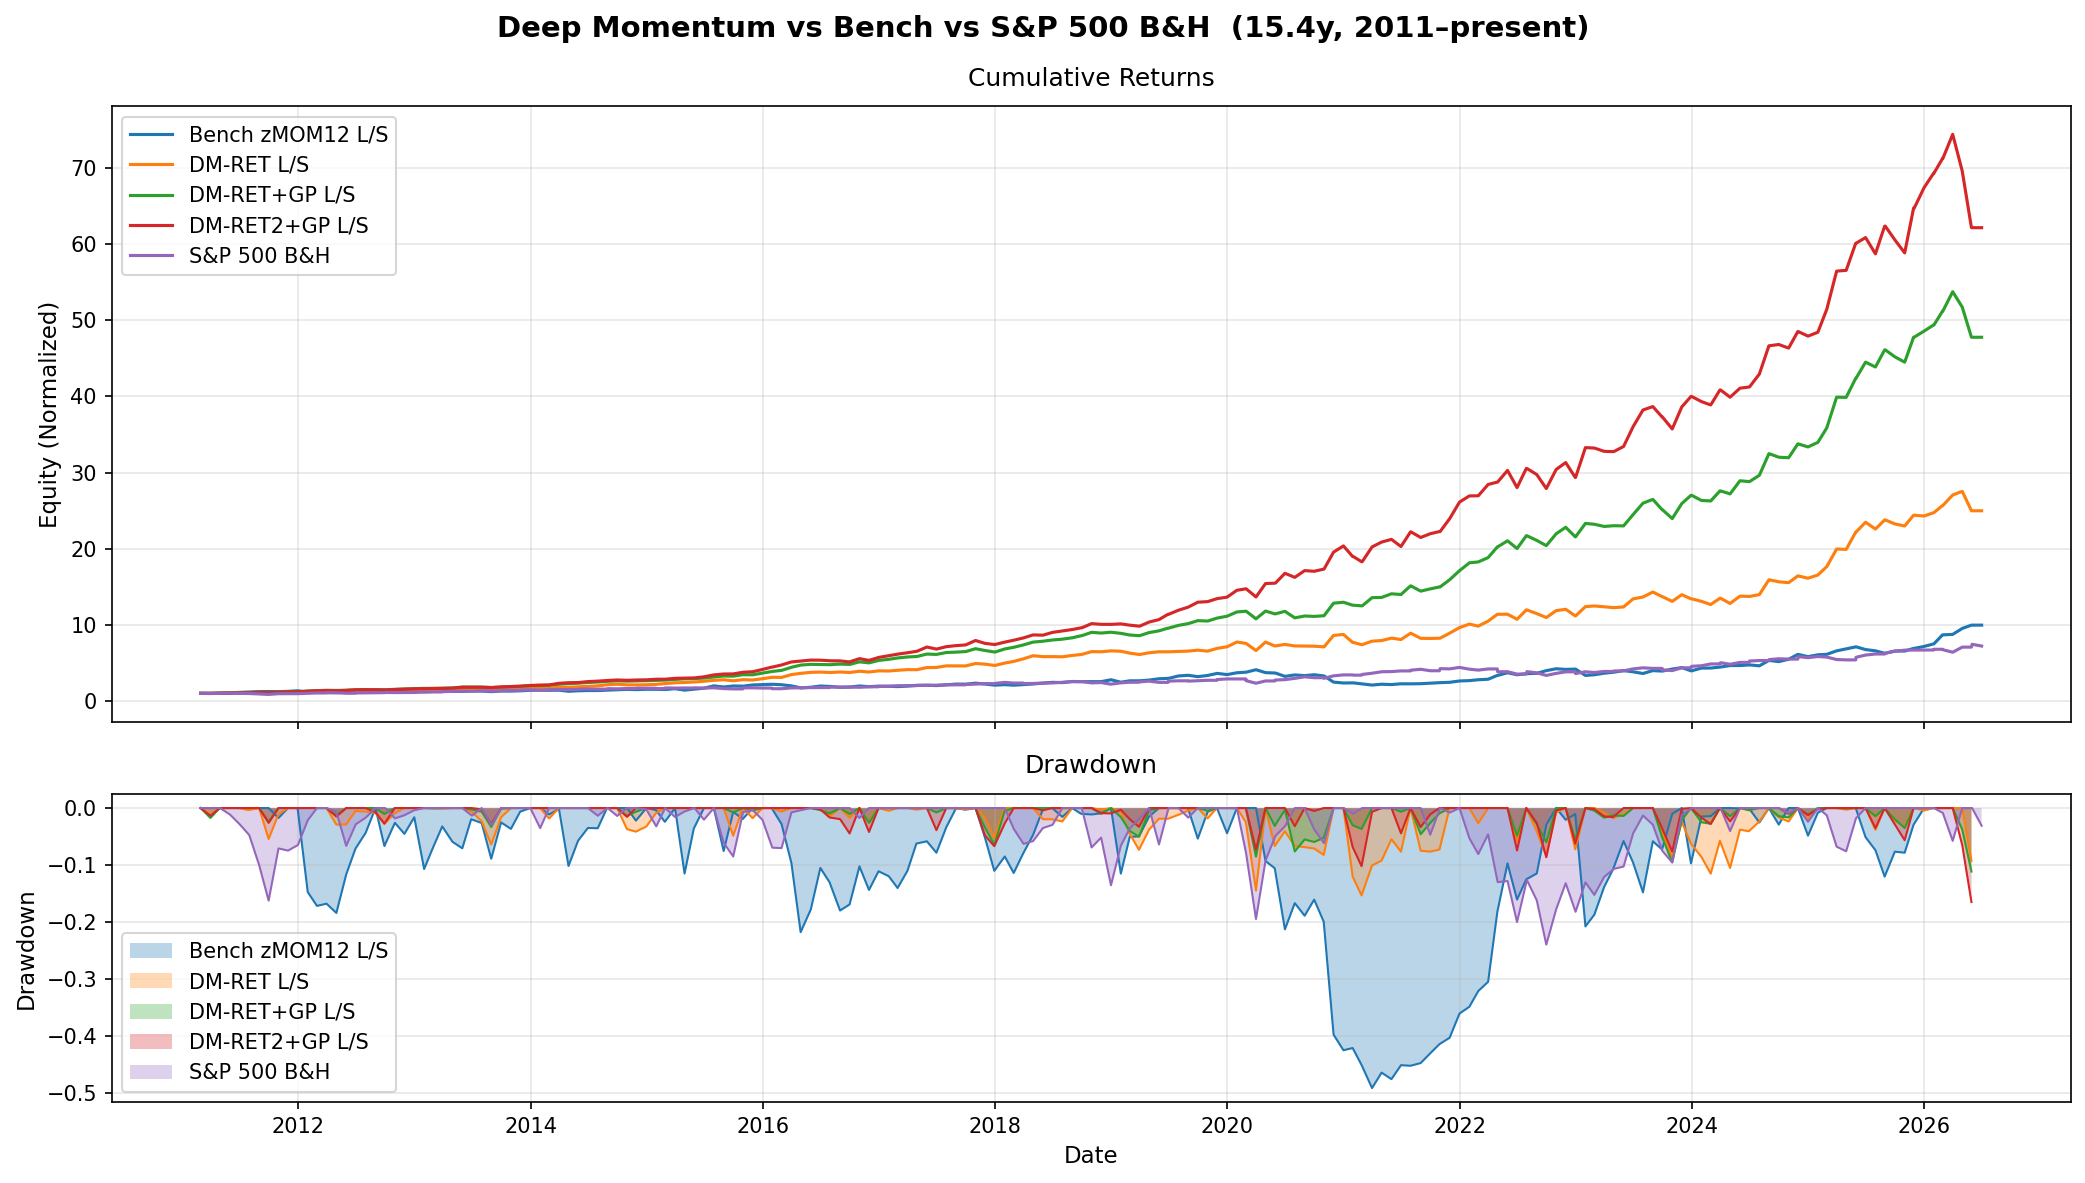
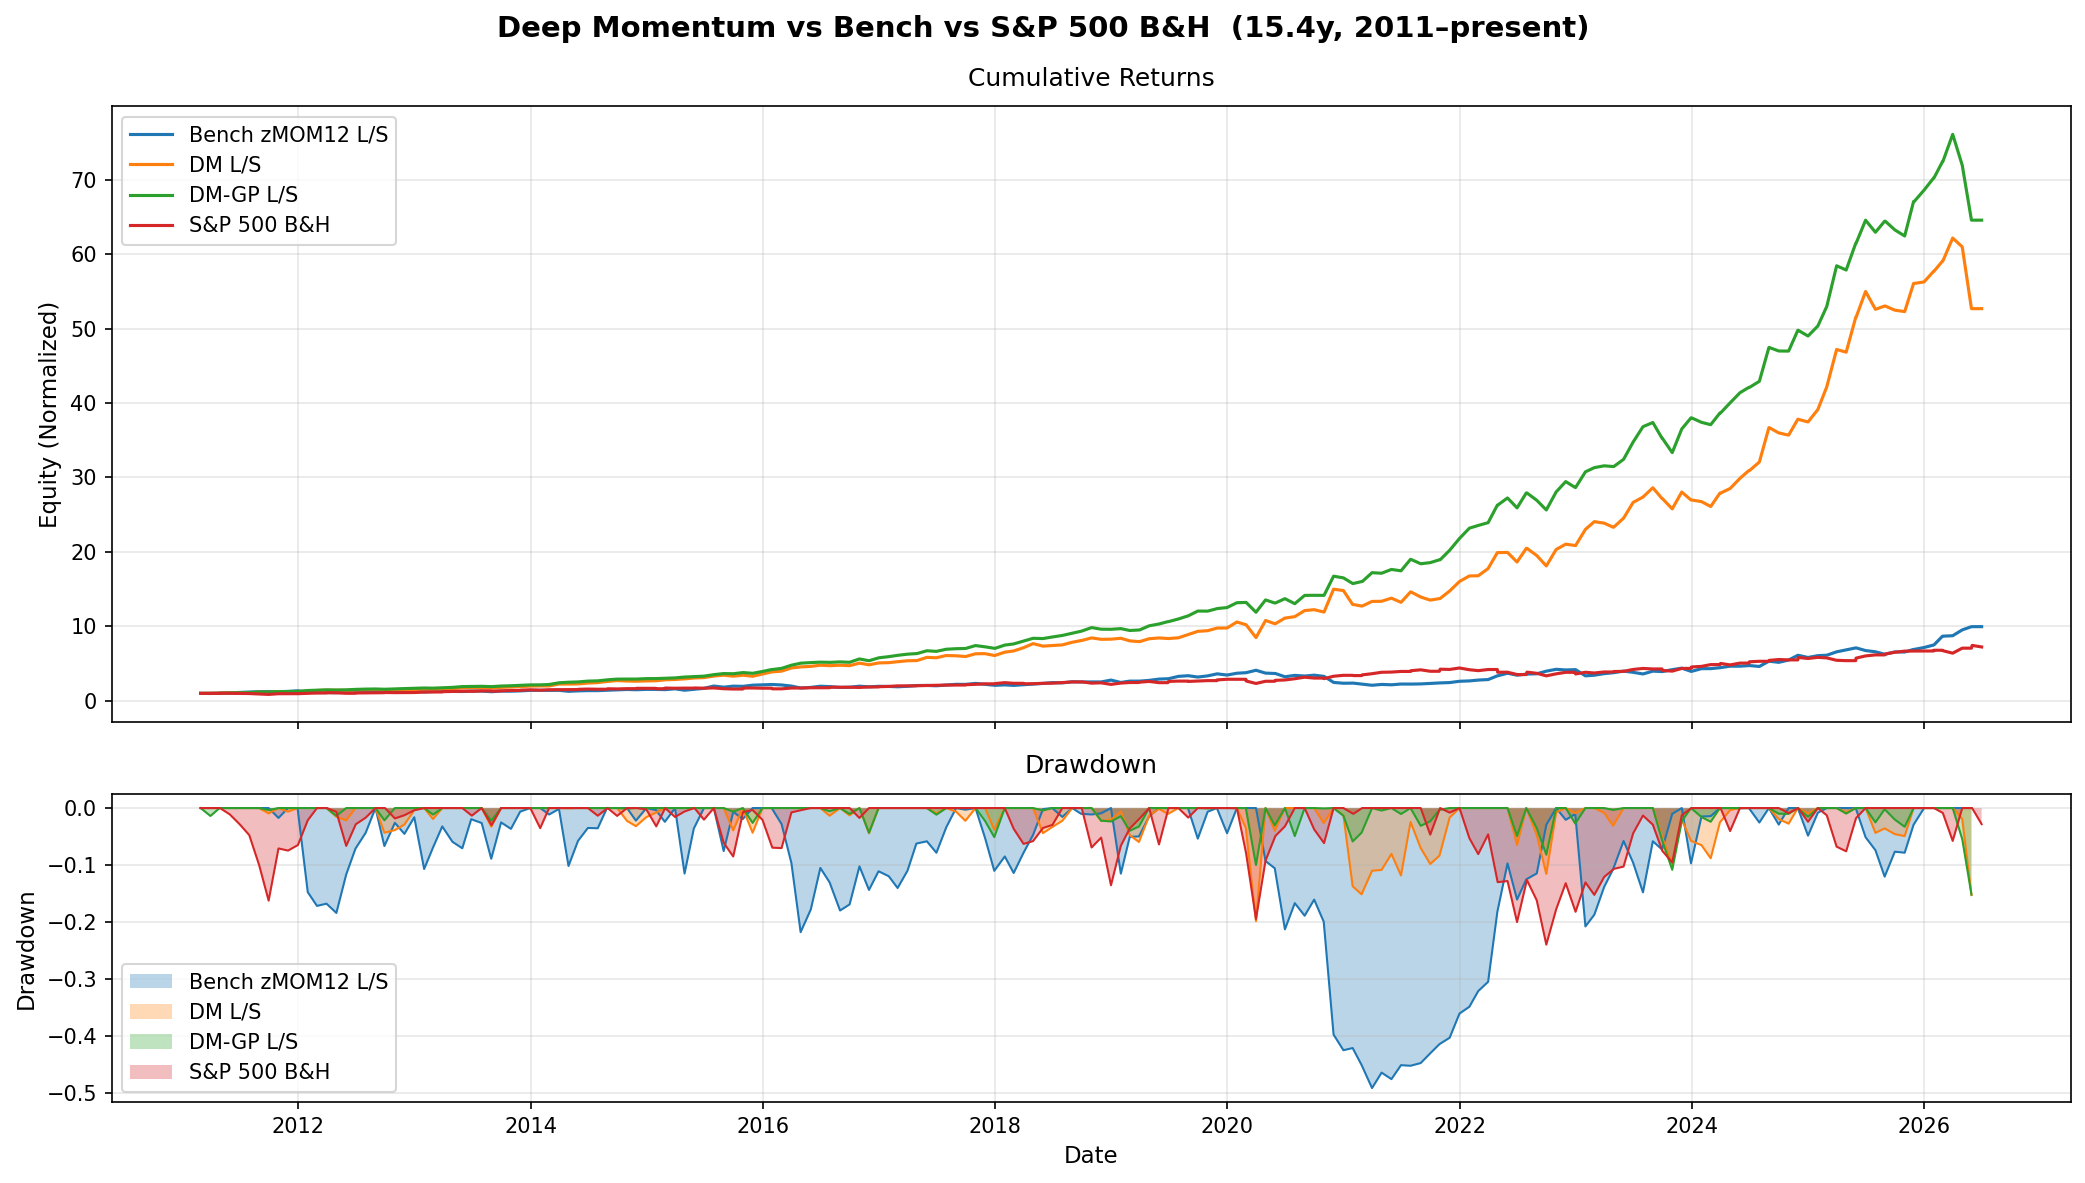
Sync RESULTS headline to xgboost 3.3 numbers (DM-GP Sharpe 2.29)
Champion confirmed under the upgraded xgboost: DM-GP 2.29 (was 2.25 under 1.7.6),
turnover 791%, DD -15%. Conclusions unchanged.

diff --git a/RESULTS.md b/RESULTS.md
@@ -22,9 +22,13 @@ retrain, 5-seed ensemble, time-blocked validation. Returns net of 10bp transacti
 | Strategy | Ann. Return | Sharpe | Max DD | Ann. Vol | Ann. Turnover |
 |---|---|---|---|---|---|
 | Bench zMOM12 L/S (raw momentum) | 16.4% | 0.77 | −49.1% | 21.2% | 683% |
-| DM L/S (RET reclassification) | 23.3% | 1.41 | −15.3% | 16.5% | 1456% |
-| **DM-GP L/S (champion)** | 28.6% | **2.25** | **−11.1%** | 12.7% | 786% |
+| DM L/S (RET reclassification) | 29.7% | 1.62 | −19.8% | 18.4% | 1476% |
+| **DM-GP L/S (champion)** | 31.4% | **2.29** | **−15.2%** | 13.7% | 791% |
 | S&P 500 B&H | 13.9% | 0.98 | −23.9% | 14.2% | 0% |
+
+*(Headline table under xgboost 3.3.0. The experiment-by-experiment deltas quoted in the
+thesis below were measured under xgboost 1.7.6 — DM 1.41, DM-GP 2.25; the upgrade nudged
+levels up slightly but left every ranking and conclusion unchanged.)*
 
 ---
 